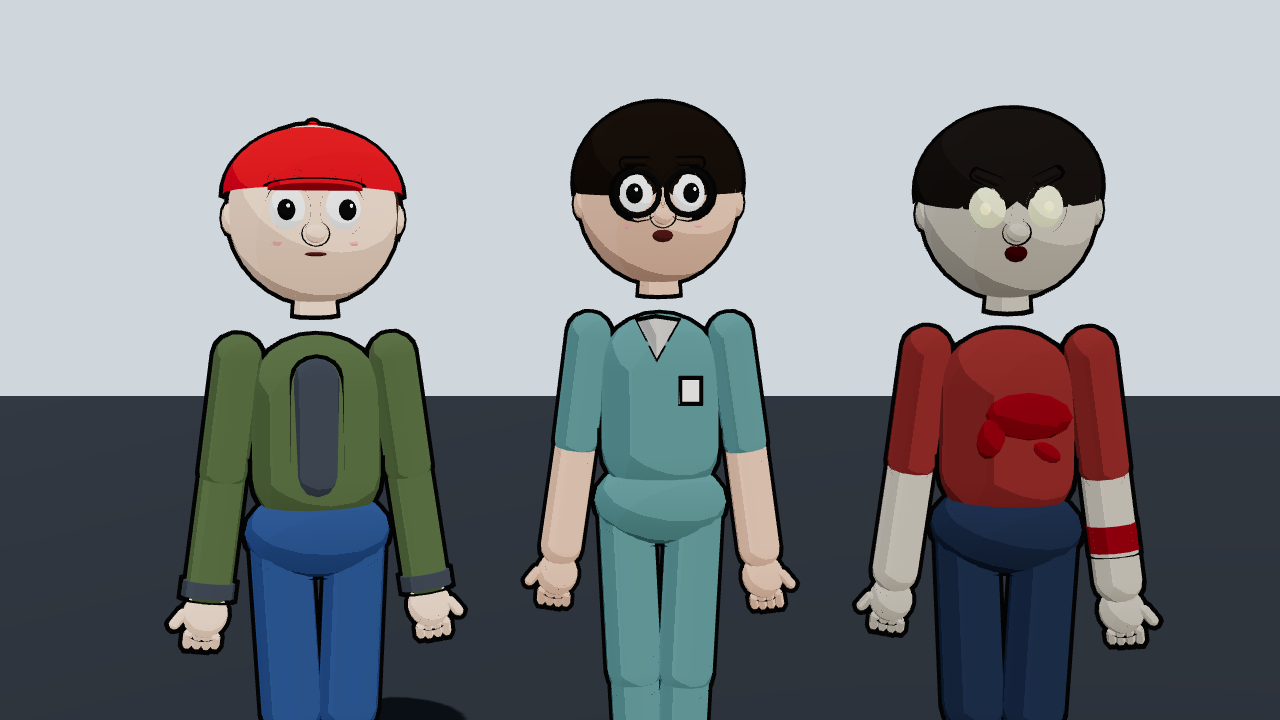
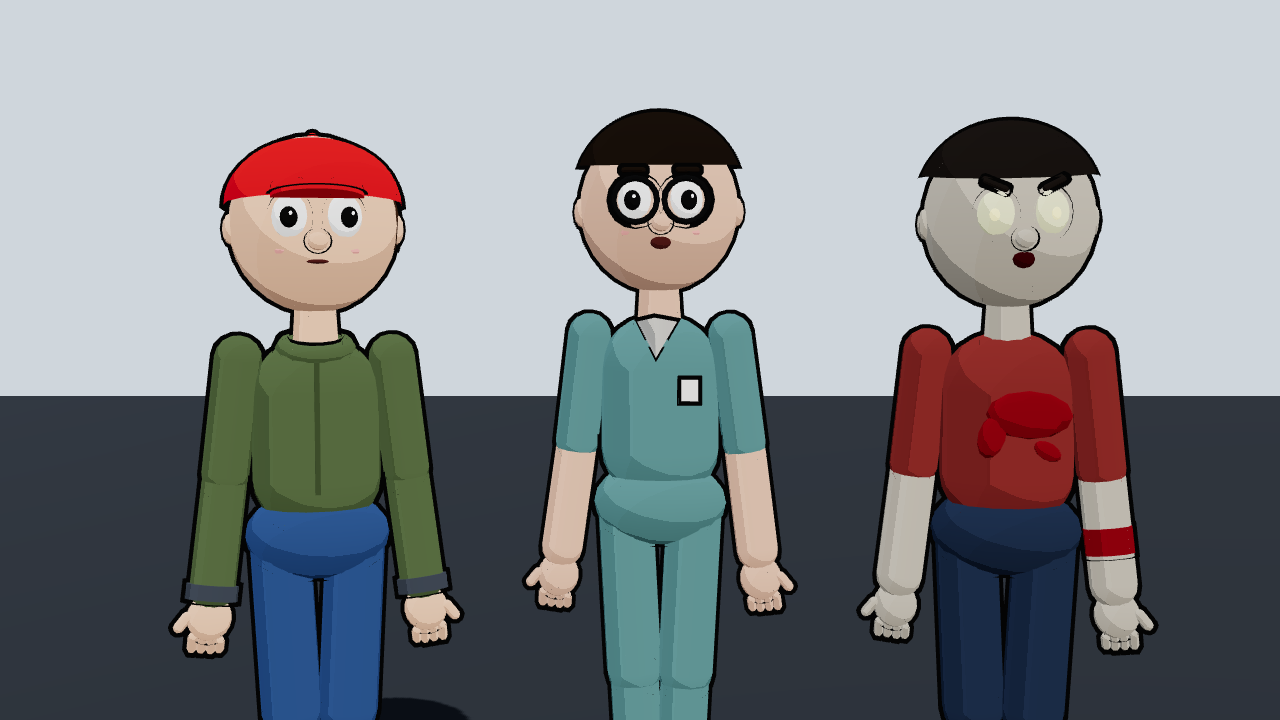
Protagonista: jaqueta fechada com zíper fino e gola (remove faixa escura que parecia um buraco no peito)
Claude-Session: https://claude.ai/code/session_01GTWAZNUxLoWGdNH1r38Hoy

diff --git a/src/components/characters/Humanoid.tsx b/src/components/characters/Humanoid.tsx
@@ -152,9 +152,15 @@ export const Humanoid: React.FC<{spec: CharacterSpec; pose: Pose; position?: [nu
           </mesh>
           <group position={[0, 0.25, 0]} rotation={R(pose.chest)}>
             {spec.topStyle === 'jacket' && (
-              <mesh position={[0, -0.02, 0.112 * b]} scale={[0.75, 1, 0.35]} material={accent}>
-                <capsuleGeometry args={[0.045, 0.2, 4, 8]} />
-              </mesh>
+              /* jaqueta FECHADA: zíper fino em tom levemente mais escuro + gola (sem contorno, para não parecer furo) */
+              <>
+                <mesh position={[0, -0.05, 0.106 * b]} material={mat('#4a5639', {outline: false})}>
+                  <boxGeometry args={[0.012, 0.3, 0.02]} />
+                </mesh>
+                <mesh position={[0, 0.125, 0.01]} rotation={[deg(-80), 0, 0]} material={top}>
+                  <torusGeometry args={[0.07, 0.022, 6, 14]} />
+                </mesh>
+              </>
             )}
             {spec.topStyle === 'hoodie' && (
               <mesh position={[0, 0.13, -0.08]} rotation={[deg(-20), 0, 0]} material={top}>
